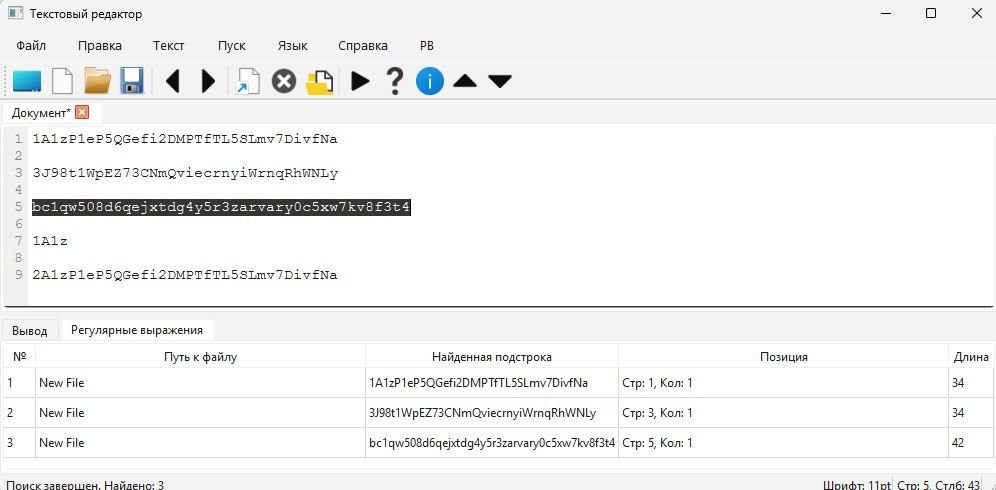
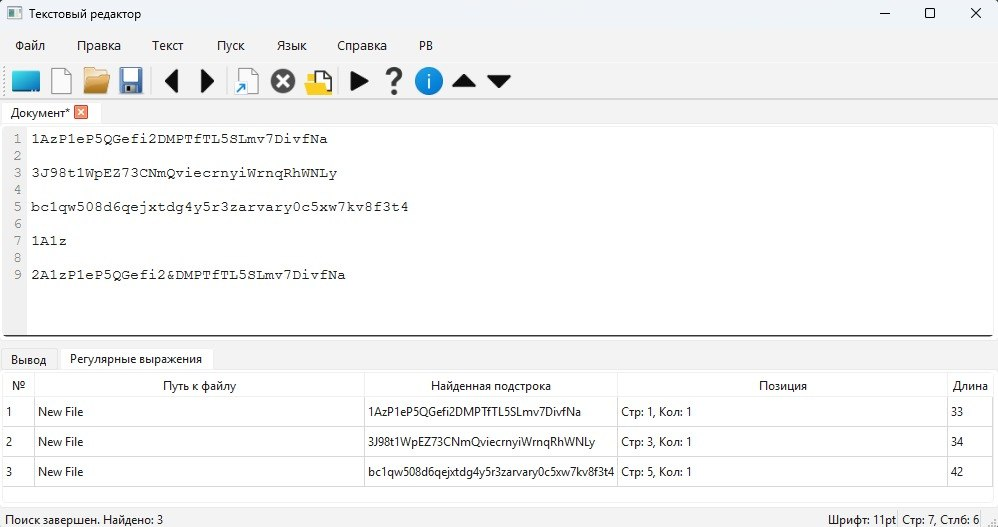
Фикс автомата и README

diff --git a/controller.py b/controller.py
@@ -324,7 +324,7 @@ class EditorController:
             for col, item in enumerate(items):
                 table.setItem(row, col, item)
 
-        self.ui.statusBar().showMessage(f"Поиск завершен. Найдено: {len(matches)}", 5000)
+        self.ui.statusBar().showMessage(f"Поиск завершен. Найдено совпадений: {len(matches)}", 5000)
 
     def run_fsm_latitude_search(self):
         editor = self.ui.get_current_editor()
@@ -346,50 +346,57 @@ class EditorController:
         i = 0
 
         while i < n:
-            states = {0}
+            state = 0
             match_len = -1
 
             for j in range(i, n):
                 char = text[j]
-                next_states = set()
+                next_state = -1
 
-                for state in states:
-                    if state == 0:
-                        if char in "012345678": next_states.add(1)
-                        if char == '9': next_states.add(2)
-                        if char.isdigit(): next_states.add(3)
-                    elif state == 1:
-                        if char.isdigit(): next_states.add(3)
-                    elif state == 2:
-                        if char == '0': next_states.add(3)
-                    elif state == 3:
-                        if char == '°': next_states.add(4)
-                    elif state == 4:
-                        if char in "012345": next_states.add(5)
-                        if char.isdigit(): next_states.add(6)
-                    elif state == 5:
-                        if char.isdigit(): next_states.add(6)
-                    elif state == 6:
-                        if char == "'": next_states.add(7)
-                    elif state == 7:
-                        if char in "012345": next_states.add(8)
-                        if char.isdigit(): next_states.add(9)
-                    elif state == 8:
-                        if char.isdigit(): next_states.add(9)
-                    elif state == 9:
-                        if char == '"': next_states.add(10)
-                    elif state == 10:
-                        if char in "NS": next_states.add(11)
+                if state == 0:
+                    if char in "012345678": next_state = 1
+                    elif char == '9': next_state = 2
+                elif state == 1:
+                    if char.isdigit(): next_state = 3
+                    elif char == '°': next_state = 4
+                elif state == 2:
+                    if char == '0': next_state = 5
+                    elif char == '°': next_state = 4
+                elif state == 3:
+                    if char == '°': next_state = 4
+                elif state == 5:
+                    if char == '°': next_state = 4
+                elif state == 4:
+                    if char in "012345": next_state = 6
+                    elif char in "6789": next_state = 7
+                elif state == 6:
+                    if char.isdigit(): next_state = 8
+                    elif char == "'": next_state = 9
+                elif state == 7:
+                    if char == "'": next_state = 9
+                elif state == 8:
+                    if char == "'": next_state = 9
+                elif state == 9:
+                    if char in "012345": next_state = 10
+                    elif char in "6789": next_state = 11
+                elif state == 10:
+                    if char.isdigit(): next_state = 12
+                    elif char == '"': next_state = 13
+                elif state == 11:
+                    if char == '"': next_state = 13
+                elif state == 12:
+                    if char == '"': next_state = 13
+                elif state == 13:
+                    if char in "NS": next_state = 14
 
-                if not next_states:
+                if next_state == -1:
                     break
 
-                if 11 in next_states:
+                state = next_state
+
+                if state == 14:
                     match_len = j - i + 1
                     break
-
-                states = next_states
-
 
             if match_len != -1:
                 matches.append({
@@ -402,7 +409,7 @@ class EditorController:
                 i += 1
 
         if not matches:
-            self.ui.statusBar().showMessage("Совпадений не найдено (Автомат)", 5000)
+            self.ui.statusBar().showMessage("Совпадений не найдено (автомат)", 5000)
             return
 
         file_path = editor.property("file_path") or "New File"
@@ -431,4 +438,4 @@ class EditorController:
             for col, item in enumerate(items):
                 table.setItem(row, col, item)
 
-        self.ui.statusBar().showMessage(f"Поиск (Автомат) завершен. Найдено: {len(matches)}", 5000)
+        self.ui.statusBar().showMessage(f"Поиск (автомат) завершен. Найдено совпадений: {len(matches)}", 5000)

diff --git a/README.md b/README.md
@@ -73,7 +73,7 @@ bc1qw508d6qejxtdg4y5r3zarvary0c5xw7kv8f3t4
 ##### Примеры строк, которые не должны находиться
 1A1z - слишком короткая строка 
 
-2A1zP1eP5QGefi2DMPTfTL5SLmv7DivfNa - содержит запрещенный символ O
+2A1zP1eP5QGefi2&DMPTfTL5SLmv7DivfNa - содержит запрещенный символ O
 ##### Тестовые примеры
 ![lab4_bitcoin.jpg](images/lab4_bitcoin.jpg)
 
@@ -108,5 +108,6 @@ bc1qw508d6qejxtdg4y5r3zarvary0c5xw7kv8f3t4
 
 45°30'15"E - неверно, широта бывает только северной (N) или южной (S)
 ##### Граф автомата 
-
+![lab4_avtomat.drawio.png](images/lab4_avtomat.drawio.png)
 ##### Тестовые примеры
+![lab4_width.jpg](images/lab4_width.jpg)